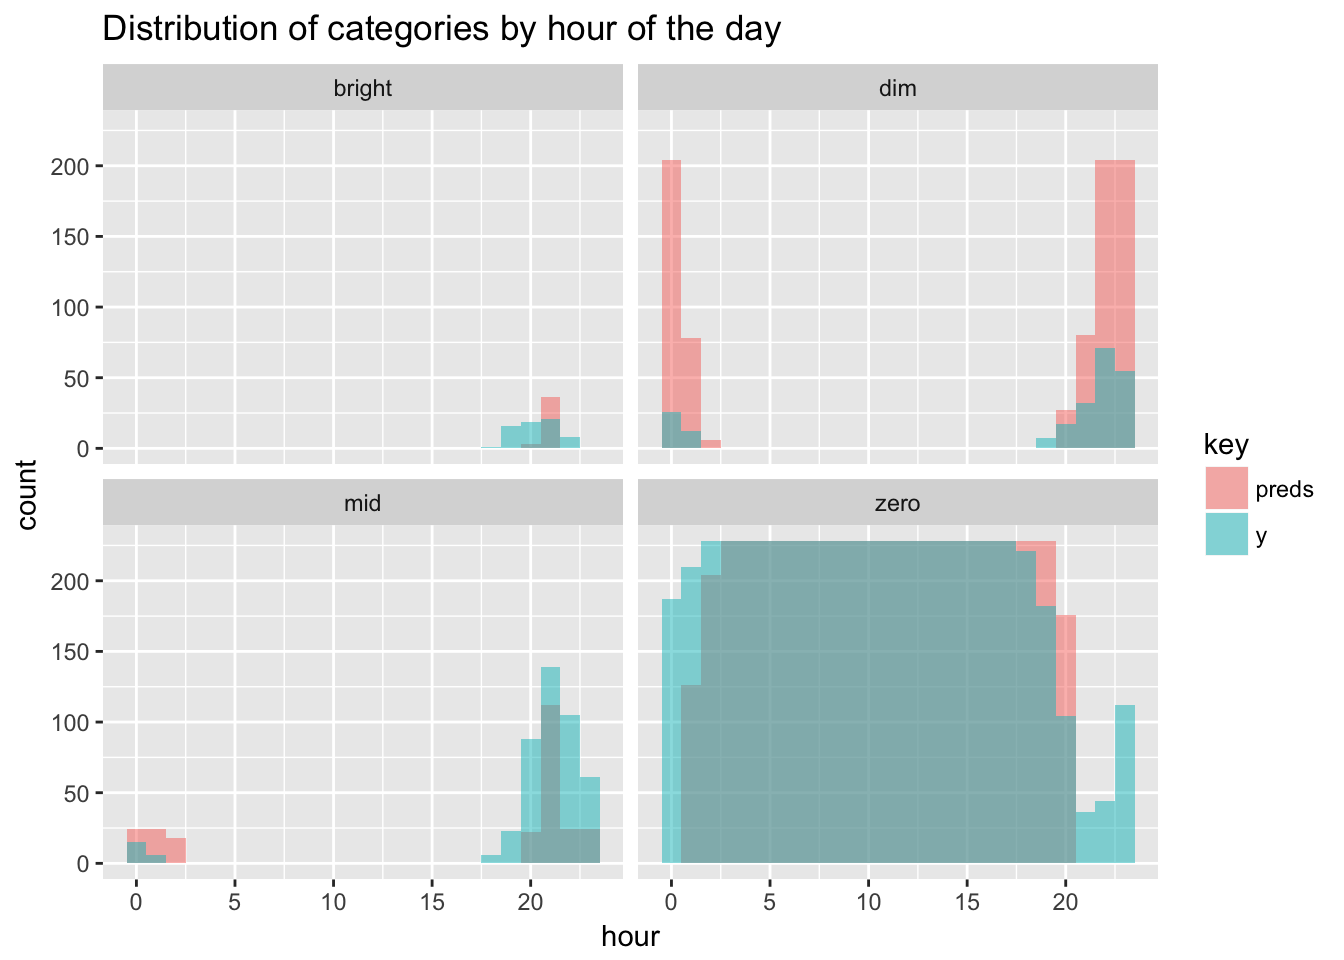
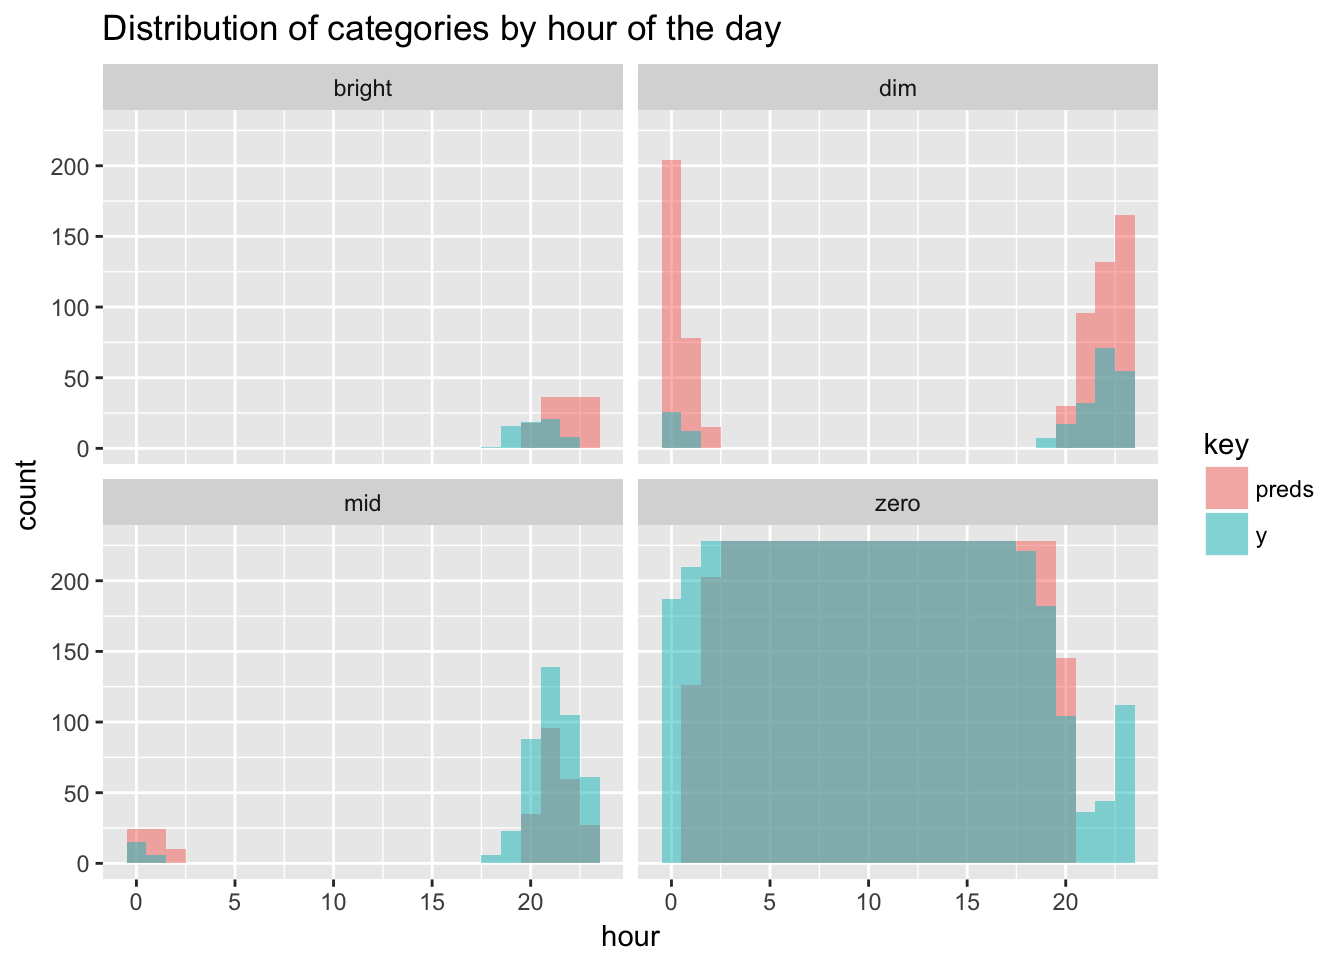
not saving imgs no more

diff --git a/blog/analyzing-my-spotify-listening-history/index.html b/blog/analyzing-my-spotify-listening-history/index.html
@@ -44,10 +44,10 @@
 
 
     
-    <link rel="stylesheet" href="../../css/reset.css?t=1510407501">
-    <link rel="stylesheet" href="../../css/main.css?t=1510407501">
+    <link rel="stylesheet" href="../../css/reset.css?t=1510407852">
+    <link rel="stylesheet" href="../../css/main.css?t=1510407852">
     
-        <link rel="stylesheet" href="../../css/override.css?t=1510407501">
+        <link rel="stylesheet" href="../../css/override.css?t=1510407852">
     
 
 
@@ -274,7 +274,7 @@ plot &lt;- merged %&gt;%
         guides(fill = FALSE) +
         theme(axis.text.x = element_text(angle = 90, hjust = 1))
 plot</code></pre>
-<p><img src="images/unnamed-chunk-7-1.png" width="672" /></p>
+<p><img src="../../blog/2017/2017-06-02-spotifyR_files/figure-html/unnamed-chunk-7-1.png" width="672" /></p>
 <p>Most of the songs in my top 10 have a similar pattern: The first few days after discovering them, there is a sharp increase in the number of plays. Sometimes it takes a couple of listens for me to get into a track, but usually I start obsessing over it immediately. One obvious exception is the song <em>Habiba</em>, the song I listened to the most. The first time I heard the song, it must have gone unnoticed. Two months later, I started playing it virtually on repeat.</p>
 </div>
 <div id="listening-times" class="section level1">
@@ -292,12 +292,12 @@ merged %&gt;% group_by(time_of_day = hour(played_at),
         ggtitle(&quot;Number of Listens per hour of the day&quot;) +
         xlab(&quot;Hour&quot;) +
         ylab(&quot;Plays&quot;)</code></pre>
-<p><img src="images/unnamed-chunk-8-1.png" width="672" /></p>
+<p><img src="../../blog/2017/2017-06-02-spotifyR_files/figure-html/unnamed-chunk-8-1.png" width="672" /></p>
 <p>Well, there’s a few interesting things here. On <strong>weekdays</strong> I listen to slightly more music than on weekends, mostly due to regular listening habits early on and during the day. The peak in the morning corresponds to me biking to work, followed by dip around 10 (daily stand-ups anyone?). Then, I put my headphones back on until about 14:00, to finish my Spotify activities in the evening when I get home.</p>
 <p>On the other hand, I listen to slightly more music in the afternoon and evening when it’s <strong>weekend</strong>. Additionally, all early hours listening happens solely on weekends.</p>
 <p>I am also interested whether there is such a thing as <em>morning artists vs. afternoon/evening artists</em>. In other words, which artists do I listen to more often in the morning than <em>after noon</em>, or the other way around. The approach I took is to count the number plays by artists, and calculate a ratio of morning / evening for each one. The result I plotted with what is apparently called a <a href="http://r-statistics.co/Top50-Ggplot2-Visualizations-MasterList-R-Code.html#Diverging%20Lollipop%20Chart">diverging lollipop chart</a>.</p>
 <p>The code snippet to produce this plot is tad bit too long to include here, but you can find all the code in the original RMarkdown file on <a href="https://github.com/mtoto/mtoto.github.io/blob/master/blog/2017/2017-06-02-spotifyR.Rmd">Github</a>.</p>
-<p><img src="images/unnamed-chunk-9-1.png" width="672" /></p>
+<p><img src="../../blog/2017/2017-06-02-spotifyR_files/figure-html/unnamed-chunk-9-1.png" width="672" /></p>
 <p>On the y-axis we have the artists. The x-axis depicts the aforementioned ratio, and the size of the <em>lollipop</em> stands for the number of plays in the given direction, also displayed by the label.</p>
 <p>The artists with the biggest divergences are <a href="https://open.spotify.com/artist/0HlOk15cW7PeziVcItQLco">Zen Mechanics</a> and <a href="https://open.spotify.com/artist/1k8VBufn1nBs8LN9n4snc8">Stereo MC’s</a>. For both artists, the number of plays is almost equal to the difference ratio. That means I played songs in the opposite timeframe <strong>only once</strong>. As a matter of fact, there are artists such as <a href="https://open.spotify.com/artist/03HEHGJoLPdARs4nrtUidr">Junior Kimbrough</a> or <a href="https://open.spotify.com/artist/3mNygoyrEKLgo6sx0MzwOL">Ali Farka Touré</a> whom I played more often in each direction, but because the plays are distributed more evenly, the ratio is not as extreme.</p>
 </div>

diff --git a/blog/an-animated-neural-net-implementation/index.html b/blog/an-animated-neural-net-implementation/index.html
@@ -44,10 +44,10 @@
 
 
     
-    <link rel="stylesheet" href="../../css/reset.css?t=1510407501">
-    <link rel="stylesheet" href="../../css/main.css?t=1510407501">
+    <link rel="stylesheet" href="../../css/reset.css?t=1510407852">
+    <link rel="stylesheet" href="../../css/main.css?t=1510407852">
     
-        <link rel="stylesheet" href="../../css/override.css?t=1510407501">
+        <link rel="stylesheet" href="../../css/override.css?t=1510407852">
     
 
 
@@ -164,7 +164,7 @@ pre code, pre, code {
 </div>
 <div id="the-main-ingredients" class="section level1">
 <h1>The main ingredients</h1>
-<p><img src="images/fig2-1.png" width="864" style="display: block; margin: auto;" /></p>
+<p><img src="../../blog/2017/2017-11-11-animated_net_files/figure-html/fig2-1.png" width="864" style="display: block; margin: auto;" /></p>
 <p>This post is mostly inspired by <a href="https://www.coursera.org/specializations/deep-learning">Andrew Ng’s Deep Learning course</a> (including the dataset), which I strongly recommend for anyone interested in neural networks. The task is to predict the color of the points in the plot on the right. While it seems like a trivial problem, linear algorithms will inevitably fail at it because the colors are not linearly separable. There’s no single line we can draw that perfectly separates the red dots from the blue dots.</p>
 <div id="how-does-the-algorithm-work" class="section level2">
 <h2>How does the algorithm work?</h2>
@@ -220,7 +220,7 @@ w =
     \end{pmatrix}
 \end{align*}\]</span>
 <p>The activation function <span class="math inline">\(A^{[1]}\)</span> is the <em>tanh</em> <span class="math inline">\(A^{[1]} = \tanh(Z^{[1]})\)</span>, for the output layer we’ll use the sigmoid instead <span class="math inline">\(A^{[2]} = \sigma(Z^{[2]})\)</span>. The computation can also be visualised as a subgraph of our neural network:</p>
-<p><img src="images/unnamed-chunk-3-1.png" width="412.8" /></p>
+<p><img src="../../blog/2017/2017-11-11-animated_net_files/figure-html/unnamed-chunk-3-1.png" width="412.8" /></p>
 <p>It turns out that this implementation scales to multiple hidden nodes without any formal change to the math. Instead of a <em>weight vector</em> <span class="math inline">\(w\)</span>, we are computing the same functions using a <em>weight matrix</em> <span class="math inline">\(W\)</span>. The matrix-vector product now becomes a dot product between the two matrices. With each node in the hidden layer, we add an extra row in the transposed weight matrix. The dimensionality requirements of matrix multiplication are kept intact: <em>The number of columns of first matrix still equal the number of rows of the second</em>. But the dimensions of the output change accordingly. We go from a transposed vector of length n to an m x n matrix where <em>m = the number of hidden nodes</em>.</p>
 <span class="math display">\[\begin{align*}
 Z = {W^T}X + b= 
@@ -252,7 +252,7 @@ Z = {W^T}X + b=
        w_{n,2}x_{2,n}+b 
     \end{pmatrix}
   \end{align*}\]</span>
-<p><img src="images/unnamed-chunk-4-1.png" width="672" /></p>
+<p><img src="../../blog/2017/2017-11-11-animated_net_files/figure-html/unnamed-chunk-4-1.png" width="672" /></p>
 <p>The last step of going from the hidden layer to the output layer follows the same algebra. I’ll spare you the nitty gritty. Before we propagate forward for the first time, it is important to <strong>randomly initialize the weights</strong>. Otherwise each connection will compute <em>the exact same thing</em>.</p>
 <pre class="r"><code>initialize_parameters &lt;- function(n_x, n_h, n_y) {
 

diff --git a/blog/self-learning-hue-lights/index.html b/blog/self-learning-hue-lights/index.html
@@ -44,10 +44,10 @@
 
 
     
-    <link rel="stylesheet" href="../../css/reset.css?t=1510407501">
-    <link rel="stylesheet" href="../../css/main.css?t=1510407501">
+    <link rel="stylesheet" href="../../css/reset.css?t=1510407852">
+    <link rel="stylesheet" href="../../css/main.css?t=1510407852">
     
-        <link rel="stylesheet" href="../../css/override.css?t=1510407501">
+        <link rel="stylesheet" href="../../css/override.css?t=1510407852">
     
 
 
@@ -224,10 +224,10 @@ binned_df &lt;- binned_df %&gt;% filter(!as.Date(log_time) %in% off_days$date)</
 ## bright    dim    mid   zero 
 ##    598   1533   1710  23889</code></pre>
 <p>Roughly 86% of the time the lamps are off, resulting in an unbalanced dataset. What about brightness values lamps were <em>on</em>, according to the three remaining categories?</p>
-<p><img src="images/unnamed-chunk-6-1.png" width="672" /></p>
+<p><img src="../../blog/2017/2017-05-14-hue_files/figure-html/unnamed-chunk-6-1.png" width="672" /></p>
 <p>The distribution seems to be close to normal with a positive skew, and a massive outlier all the way at the end of the spectrum. That’s maximum brightness, the default when I switch the lights on/off with a physical switch.</p>
 <p>To get an intuition for my usage patterns, I’ll also plot a histogram of hour of the day for all four categories.</p>
-<p><img src="images/unnamed-chunk-7-1.png" width="672" /></p>
+<p><img src="../../blog/2017/2017-05-14-hue_files/figure-html/unnamed-chunk-7-1.png" width="672" /></p>
 <p>The only times the lamps are <strong>not</strong> structurally off, is in the evening and the early hours. Dim and mid values are the dominant category after 8PM instead. Another slight dip in zero appears around and shortly after midnight, compensated by the second largest peak in dim, and a few instances of mid and bright. Bright observations in general are sparse and will be tough to predict.</p>
 </div>
 <div id="can-we-learn-this" class="section level2">
@@ -277,12 +277,12 @@ gbmFit &lt;- train(y ~ ., data = training,
 table(preds, testing$y)</code></pre>
 <pre><code>##         
 ## preds     dim  mid bright zero
-##   dim      73  169     16  303
-##   mid      67  115     19  133
-##   bright   37   60      0   35
-##   zero     43   99     30 4273</code></pre>
+##   dim      98  191     30  401
+##   mid      56  104      6  110
+##   bright   37   57      0   32
+##   zero     29   91     29 4201</code></pre>
 <p>Most mistakes are made trying to classify bright and mid. The model gets 0 bright values right and only manages to do so correctly 14% of the time for mid. But when do errors happen? To dig a little deeper let’s look at the previous histogram of categories by hour again for the test set, but now with the predictions overlaid on top.</p>
-<p><img src="images/unnamed-chunk-11-1.png" width="672" /></p>
+<p><img src="../../blog/2017/2017-05-14-hue_files/figure-html/unnamed-chunk-11-1.png" width="672" /></p>
 <p>Bright values were always going be hard to guess, but the model at least comes close in terms of hours, but off on the exact days. The majority of misclassification comes from overzealously predicting dim in the evening and around midnight, when it should really be either mid or zero. That looks like a workable scenario for me.</p>
 </div>
 <div id="lets-ship-it" class="section level1">

diff --git a/blog/a-tidy-text-analysis-of-rick-and-morty/index.html b/blog/a-tidy-text-analysis-of-rick-and-morty/index.html
@@ -44,10 +44,10 @@
 
 
     
-    <link rel="stylesheet" href="../../css/reset.css?t=1510407501">
-    <link rel="stylesheet" href="../../css/main.css?t=1510407501">
+    <link rel="stylesheet" href="../../css/reset.css?t=1510407852">
+    <link rel="stylesheet" href="../../css/main.css?t=1510407852">
     
-        <link rel="stylesheet" href="../../css/override.css?t=1510407501">
+        <link rel="stylesheet" href="../../css/override.css?t=1510407852">
     
 
 

diff --git a/blog/creating-a-spotify-playlist-using-luigi/index.html b/blog/creating-a-spotify-playlist-using-luigi/index.html
@@ -44,10 +44,10 @@
 
 
     
-    <link rel="stylesheet" href="../../css/reset.css?t=1510407501">
-    <link rel="stylesheet" href="../../css/main.css?t=1510407501">
+    <link rel="stylesheet" href="../../css/reset.css?t=1510407852">
+    <link rel="stylesheet" href="../../css/main.css?t=1510407852">
     
-        <link rel="stylesheet" href="../../css/override.css?t=1510407501">
+        <link rel="stylesheet" href="../../css/override.css?t=1510407852">
     
 
 

diff --git a/blog/starting-a-blogdown/index.html b/blog/starting-a-blogdown/index.html
@@ -44,10 +44,10 @@
 
 
     
-    <link rel="stylesheet" href="../../css/reset.css?t=1510407501">
-    <link rel="stylesheet" href="../../css/main.css?t=1510407501">
+    <link rel="stylesheet" href="../../css/reset.css?t=1510407852">
+    <link rel="stylesheet" href="../../css/main.css?t=1510407852">
     
-        <link rel="stylesheet" href="../../css/override.css?t=1510407501">
+        <link rel="stylesheet" href="../../css/override.css?t=1510407852">
     
 
 

diff --git a/categories/r/index.html b/categories/r/index.html
@@ -44,10 +44,10 @@
 
 
     
-    <link rel="stylesheet" href="../../css/reset.css?t=1510407501">
-    <link rel="stylesheet" href="../../css/main.css?t=1510407501">
+    <link rel="stylesheet" href="../../css/reset.css?t=1510407852">
+    <link rel="stylesheet" href="../../css/main.css?t=1510407852">
     
-        <link rel="stylesheet" href="../../css/override.css?t=1510407501">
+        <link rel="stylesheet" href="../../css/override.css?t=1510407852">
     
 
 

diff --git a/tags/ai/index.html b/tags/ai/index.html
@@ -44,10 +44,10 @@
 
 
     
-    <link rel="stylesheet" href="../../css/reset.css?t=1510407501">
-    <link rel="stylesheet" href="../../css/main.css?t=1510407501">
+    <link rel="stylesheet" href="../../css/reset.css?t=1510407852">
+    <link rel="stylesheet" href="../../css/main.css?t=1510407852">
     
-        <link rel="stylesheet" href="../../css/override.css?t=1510407501">
+        <link rel="stylesheet" href="../../css/override.css?t=1510407852">
     
 
 

diff --git a/tags/blogdown/index.html b/tags/blogdown/index.html
@@ -44,10 +44,10 @@
 
 
     
-    <link rel="stylesheet" href="../../css/reset.css?t=1510407501">
-    <link rel="stylesheet" href="../../css/main.css?t=1510407501">
+    <link rel="stylesheet" href="../../css/reset.css?t=1510407852">
+    <link rel="stylesheet" href="../../css/main.css?t=1510407852">
     
-        <link rel="stylesheet" href="../../css/override.css?t=1510407501">
+        <link rel="stylesheet" href="../../css/override.css?t=1510407852">
     
 
 

diff --git a/tags/deep-learning/index.html b/tags/deep-learning/index.html
@@ -44,10 +44,10 @@
 
 
     
-    <link rel="stylesheet" href="../../css/reset.css?t=1510407501">
-    <link rel="stylesheet" href="../../css/main.css?t=1510407501">
+    <link rel="stylesheet" href="../../css/reset.css?t=1510407852">
+    <link rel="stylesheet" href="../../css/main.css?t=1510407852">
     
-        <link rel="stylesheet" href="../../css/override.css?t=1510407501">
+        <link rel="stylesheet" href="../../css/override.css?t=1510407852">
     
 
 

diff --git a/tags/dplyr/index.html b/tags/dplyr/index.html
@@ -44,10 +44,10 @@
 
 
     
-    <link rel="stylesheet" href="../../css/reset.css?t=1510407501">
-    <link rel="stylesheet" href="../../css/main.css?t=1510407501">
+    <link rel="stylesheet" href="../../css/reset.css?t=1510407852">
+    <link rel="stylesheet" href="../../css/main.css?t=1510407852">
     
-        <link rel="stylesheet" href="../../css/override.css?t=1510407501">
+        <link rel="stylesheet" href="../../css/override.css?t=1510407852">
     
 
 

diff --git a/tags/ggplot/index.html b/tags/ggplot/index.html
@@ -44,10 +44,10 @@
 
 
     
-    <link rel="stylesheet" href="../../css/reset.css?t=1510407501">
-    <link rel="stylesheet" href="../../css/main.css?t=1510407501">
+    <link rel="stylesheet" href="../../css/reset.css?t=1510407852">
+    <link rel="stylesheet" href="../../css/main.css?t=1510407852">
     
-        <link rel="stylesheet" href="../../css/override.css?t=1510407501">
+        <link rel="stylesheet" href="../../css/override.css?t=1510407852">
     
 
 
